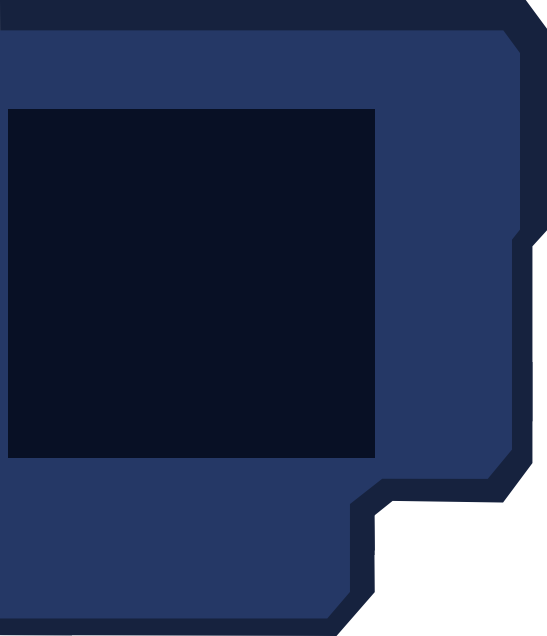
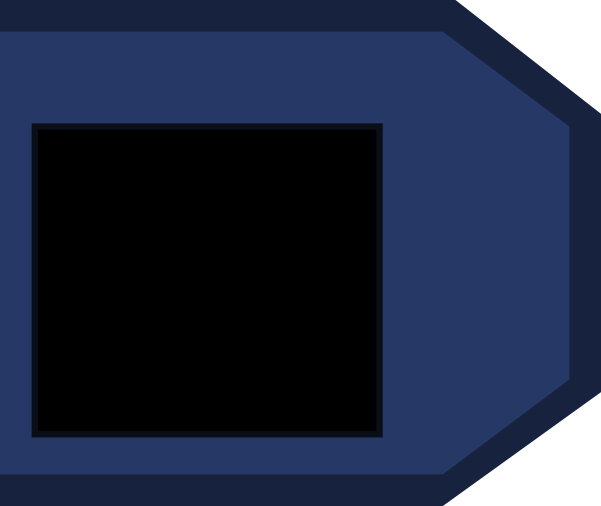
Redesigned left panel Date: April 6, 2016 21:48:25

diff --git a/Hydroq/src/HydroqGameView.cpp b/Hydroq/src/HydroqGameView.cpp
@@ -48,12 +48,21 @@ void HydroqGameView::OnMessage(Msg& msg) {
 			auto oldEntity = dynamicSpriteEntities[evt->changedNode->GetId()];
 			dynamicSpriteEntities.erase(evt->changedNode->GetId());
 
-			// todo: performance!
-			for (auto it = dynamicSprites->GetSprites().begin(); it != dynamicSprites->GetSprites().end(); ++it) {
-				if ((*it)->id == oldEntity->id) {
-					dynamicSprites->GetSprites().erase(it);
-					break;
-				}
+			dynamicSprites->RemoveSprite(oldEntity);
+			
+			if (evt->changedMapNode->mapNodeType == MapNodeType::GROUND) {
+					// add explosion effect
+					Trans transform = evt->changedNode->GetTransform();
+					transform.localPos.x = defaultSpriteSet->GetSpriteWidth() * transform.localPos.x;
+					transform.localPos.y = defaultSpriteSet->GetSpriteHeight() * transform.localPos.y;
+
+					transform.localPos.z += 10; // increase z-index little bit
+					auto sprite = spriteTypes["explosion"][0];
+					auto explos = spt<SpriteEntity>(new SpriteEntity(sprite, transform));
+					this->explosions.push_back(explos);
+					dynamicSprites->GetSprites().push_back(explos);
+					dynamicSprites->RefreshZIndex();
+				
 			}
 		}
 		else if (evt->changeType == ObjectChangeType::STATIC_CHANGED) {
@@ -147,6 +156,7 @@ void HydroqGameView::Update(const uint64 delta, const uint64 absolute) {
 	StringHash stateIdle = StringHash(STATE_WORKER_IDLE);
 	StringHash stateBuild = StringHash(STATE_WORKER_BUILD);
 	StringHash stateAttract = StringHash(STATE_WORKER_ATTRACTOR_FOLLOW);
+	
 
 	// update transformation of all objects
 	for (auto& dynObj : movingObjects) {
@@ -173,6 +183,72 @@ void HydroqGameView::Update(const uint64 delta, const uint64 absolute) {
 				else if (actualFrame == (startFrame + frames - 1)) frameToSet = startFrame;
 				else frameToSet = actualFrame + 1;
 				sprite->sprite = spt<Sprite>(new Sprite(defaultSpriteSet, frameToSet));
+			}
+		}
+	}
+
+	if (CogGetFrameCounter() % 5 == 0) {
+		auto spriteType = spriteTypes["rig_blue"];
+		for (auto& rig : model->GetRigsByFaction(Faction::BLUE)) {
+			if (!spriteType.empty()) {
+				auto startFrame = spriteType[0]->GetFrame();
+
+				auto pos = ofVec2f(rig->GetTransform().localPos);
+
+				auto sprite1 = this->staticSpriteMap[Vec2i(pos.x, pos.y)];
+				auto sprite2 = this->staticSpriteMap[Vec2i(pos.x + 1, pos.y)];
+				auto sprite3 = this->staticSpriteMap[Vec2i(pos.x, pos.y + 1)];
+				auto sprite4 = this->staticSpriteMap[Vec2i(pos.x + 1, pos.y + 1)];
+
+				if (sprite1 && sprite2 && sprite3 &&sprite4) {
+					auto actualFrame = sprite1->sprite->GetFrame() + 4;
+					if (actualFrame == startFrame + 4 * 3) actualFrame = startFrame;
+
+					sprite1->sprite = spt<Sprite>(new Sprite(defaultSpriteSet, actualFrame));
+					sprite2->sprite = spt<Sprite>(new Sprite(defaultSpriteSet, actualFrame + 1));
+					sprite3->sprite = spt<Sprite>(new Sprite(defaultSpriteSet, actualFrame + 2));
+					sprite4->sprite = spt<Sprite>(new Sprite(defaultSpriteSet, actualFrame + 3));
+				}
+			}
+		}
+
+		spriteType = spriteTypes["rig_red"];
+		for (auto& rig : model->GetRigsByFaction(Faction::RED)) {
+			if (!spriteType.empty()) {
+				auto startFrame = spriteType[0]->GetFrame();
+
+				auto pos = ofVec2f(rig->GetTransform().localPos);
+
+				auto sprite1 = this->staticSpriteMap[Vec2i(pos.x, pos.y)];
+				auto sprite2 = this->staticSpriteMap[Vec2i(pos.x + 1, pos.y)];
+				auto sprite3 = this->staticSpriteMap[Vec2i(pos.x, pos.y + 1)];
+				auto sprite4 = this->staticSpriteMap[Vec2i(pos.x + 1, pos.y + 1)];
+
+				if (sprite1 && sprite2 && sprite3 &&sprite4) {
+					auto actualFrame = sprite1->sprite->GetFrame() + 4;
+					if (actualFrame == startFrame + 4 * 3) actualFrame = startFrame;
+
+					sprite1->sprite = spt<Sprite>(new Sprite(defaultSpriteSet, actualFrame));
+					sprite2->sprite = spt<Sprite>(new Sprite(defaultSpriteSet, actualFrame + 1));
+					sprite3->sprite = spt<Sprite>(new Sprite(defaultSpriteSet, actualFrame + 2));
+					sprite4->sprite = spt<Sprite>(new Sprite(defaultSpriteSet, actualFrame + 3));
+				}
+			}
+		}
+	}
+
+	if (CogGetFrameCounter() % 3 == 0) {
+		auto spriteType = spriteTypes["explosion"];
+		for (auto it = explosions.begin(); it != explosions.end();) {
+			int startFrame = spriteType[0]->GetFrame();
+			int actualFrame = (*it)->sprite->GetFrame() + 1;
+			if ((actualFrame - startFrame) > 11) {
+				dynamicSprites->RemoveSprite(*it);
+				it = explosions.erase(it);
+			}
+			else {
+				(*it)->sprite = spt<Sprite>(new Sprite(defaultSpriteSet, actualFrame));
+				++it;
 			}
 		}
 	}

diff --git a/Hydroq/src/LeftPanel.h b/Hydroq/src/LeftPanel.h
@@ -1,7 +1,9 @@
 #pragma once
 
 #include "ofxCogMain.h"
-
+#include "HydroqPlayerModel.h"
+#include "HydroqDef.h"
+#include "Board.h"
 
 class LeftPanel : public Behavior {
 	OBJECT_PROTOTYPE(LeftPanel)
@@ -85,7 +87,7 @@ private:
 		ofVec2f size = shape->GetWidth() > shape->GetHeight() ? ofVec2f(0.55f, 0) : ofVec2f(0, 0.55f);
 
 		// reload transform
-		TransformEnt trans = TransformEnt(ofVec2f(0.35f, 0.45f), 10, CalcType::PER, ofVec2f(0.5f), size, CalcType::PER);
+		TransformEnt trans = TransformEnt(ofVec2f(0.345f, 0.55f), 10, CalcType::PER, ofVec2f(0.5f), size, CalcType::PER);
 		TransformMath math = TransformMath();
 		math.SetTransform(mapIcon, mapIcon->GetParent(), trans);
 	}

diff --git a/Hydroq/src/HydroqGameView.h b/Hydroq/src/HydroqGameView.h
@@ -26,6 +26,8 @@ private:
 	map<Vec2i, spt<SpriteEntity>> staticSpriteMap;
 	// collection of dynamic sprites
 	spt<SpritesShape> dynamicSprites;
+
+	vector<spt<SpriteEntity>> explosions;
 	// collection of dynamic sprites, mapping by identifier
 	map<int, spt<SpriteEntity>> dynamicSpriteEntities;
 	
